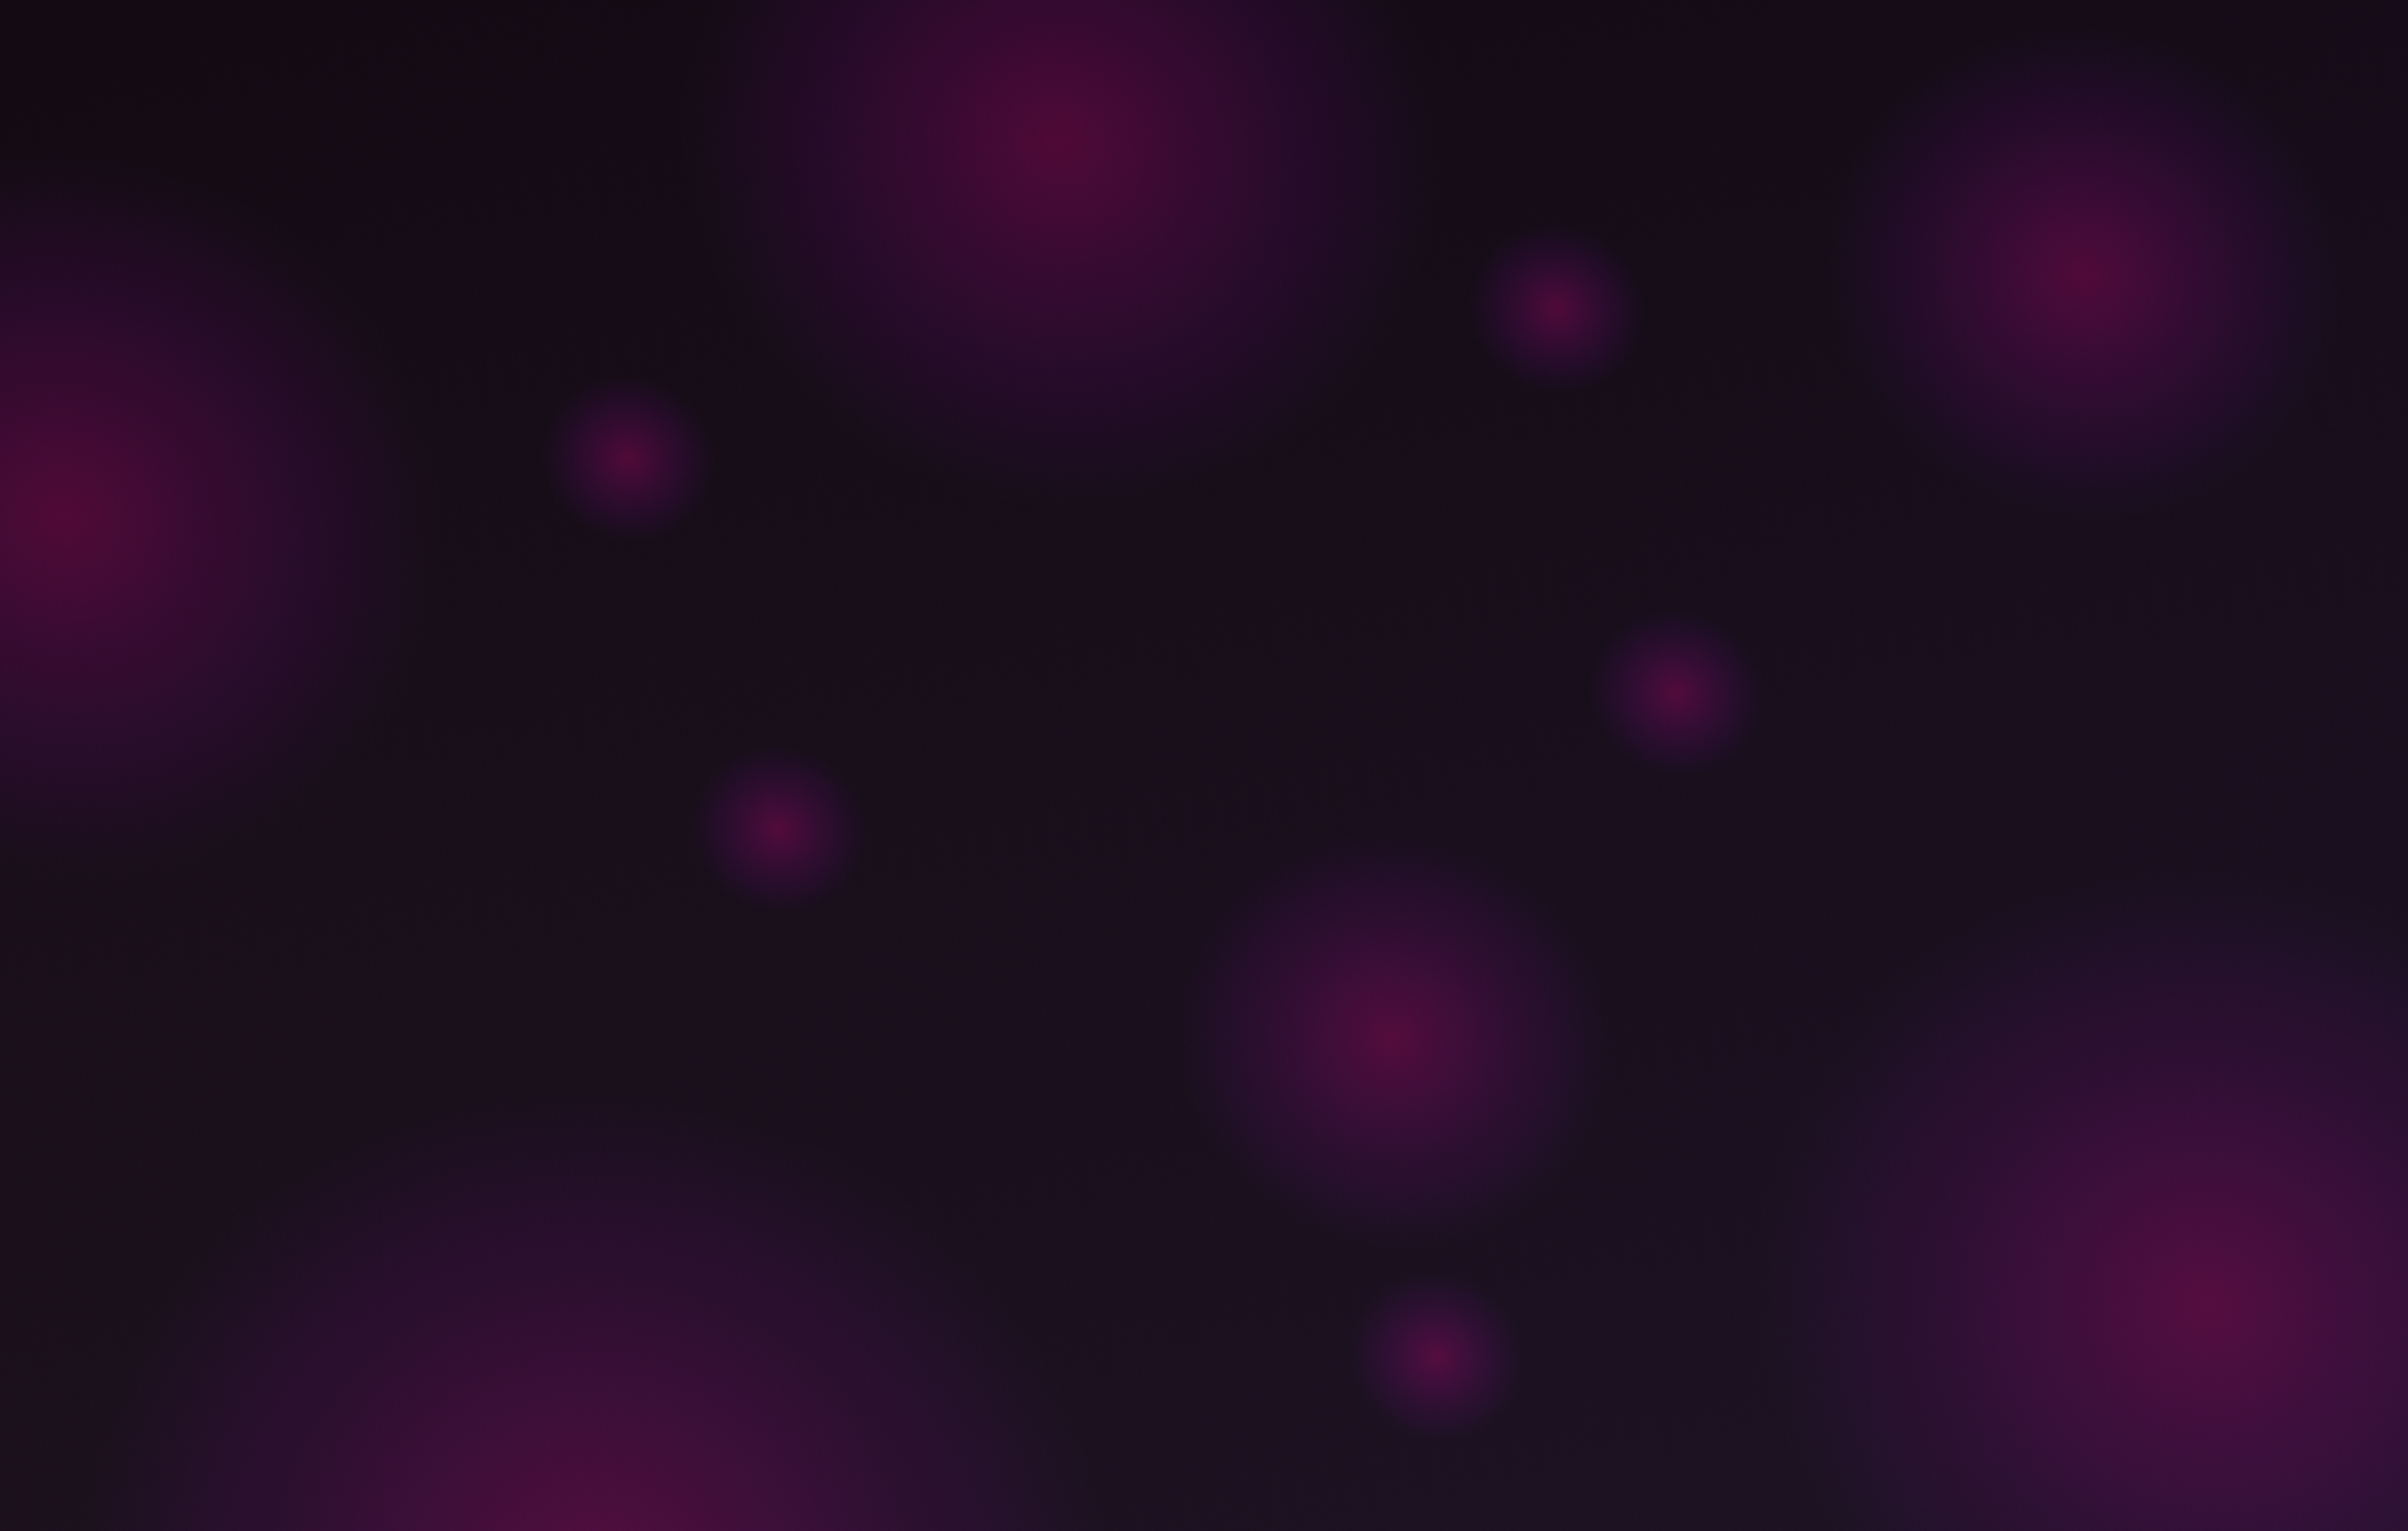
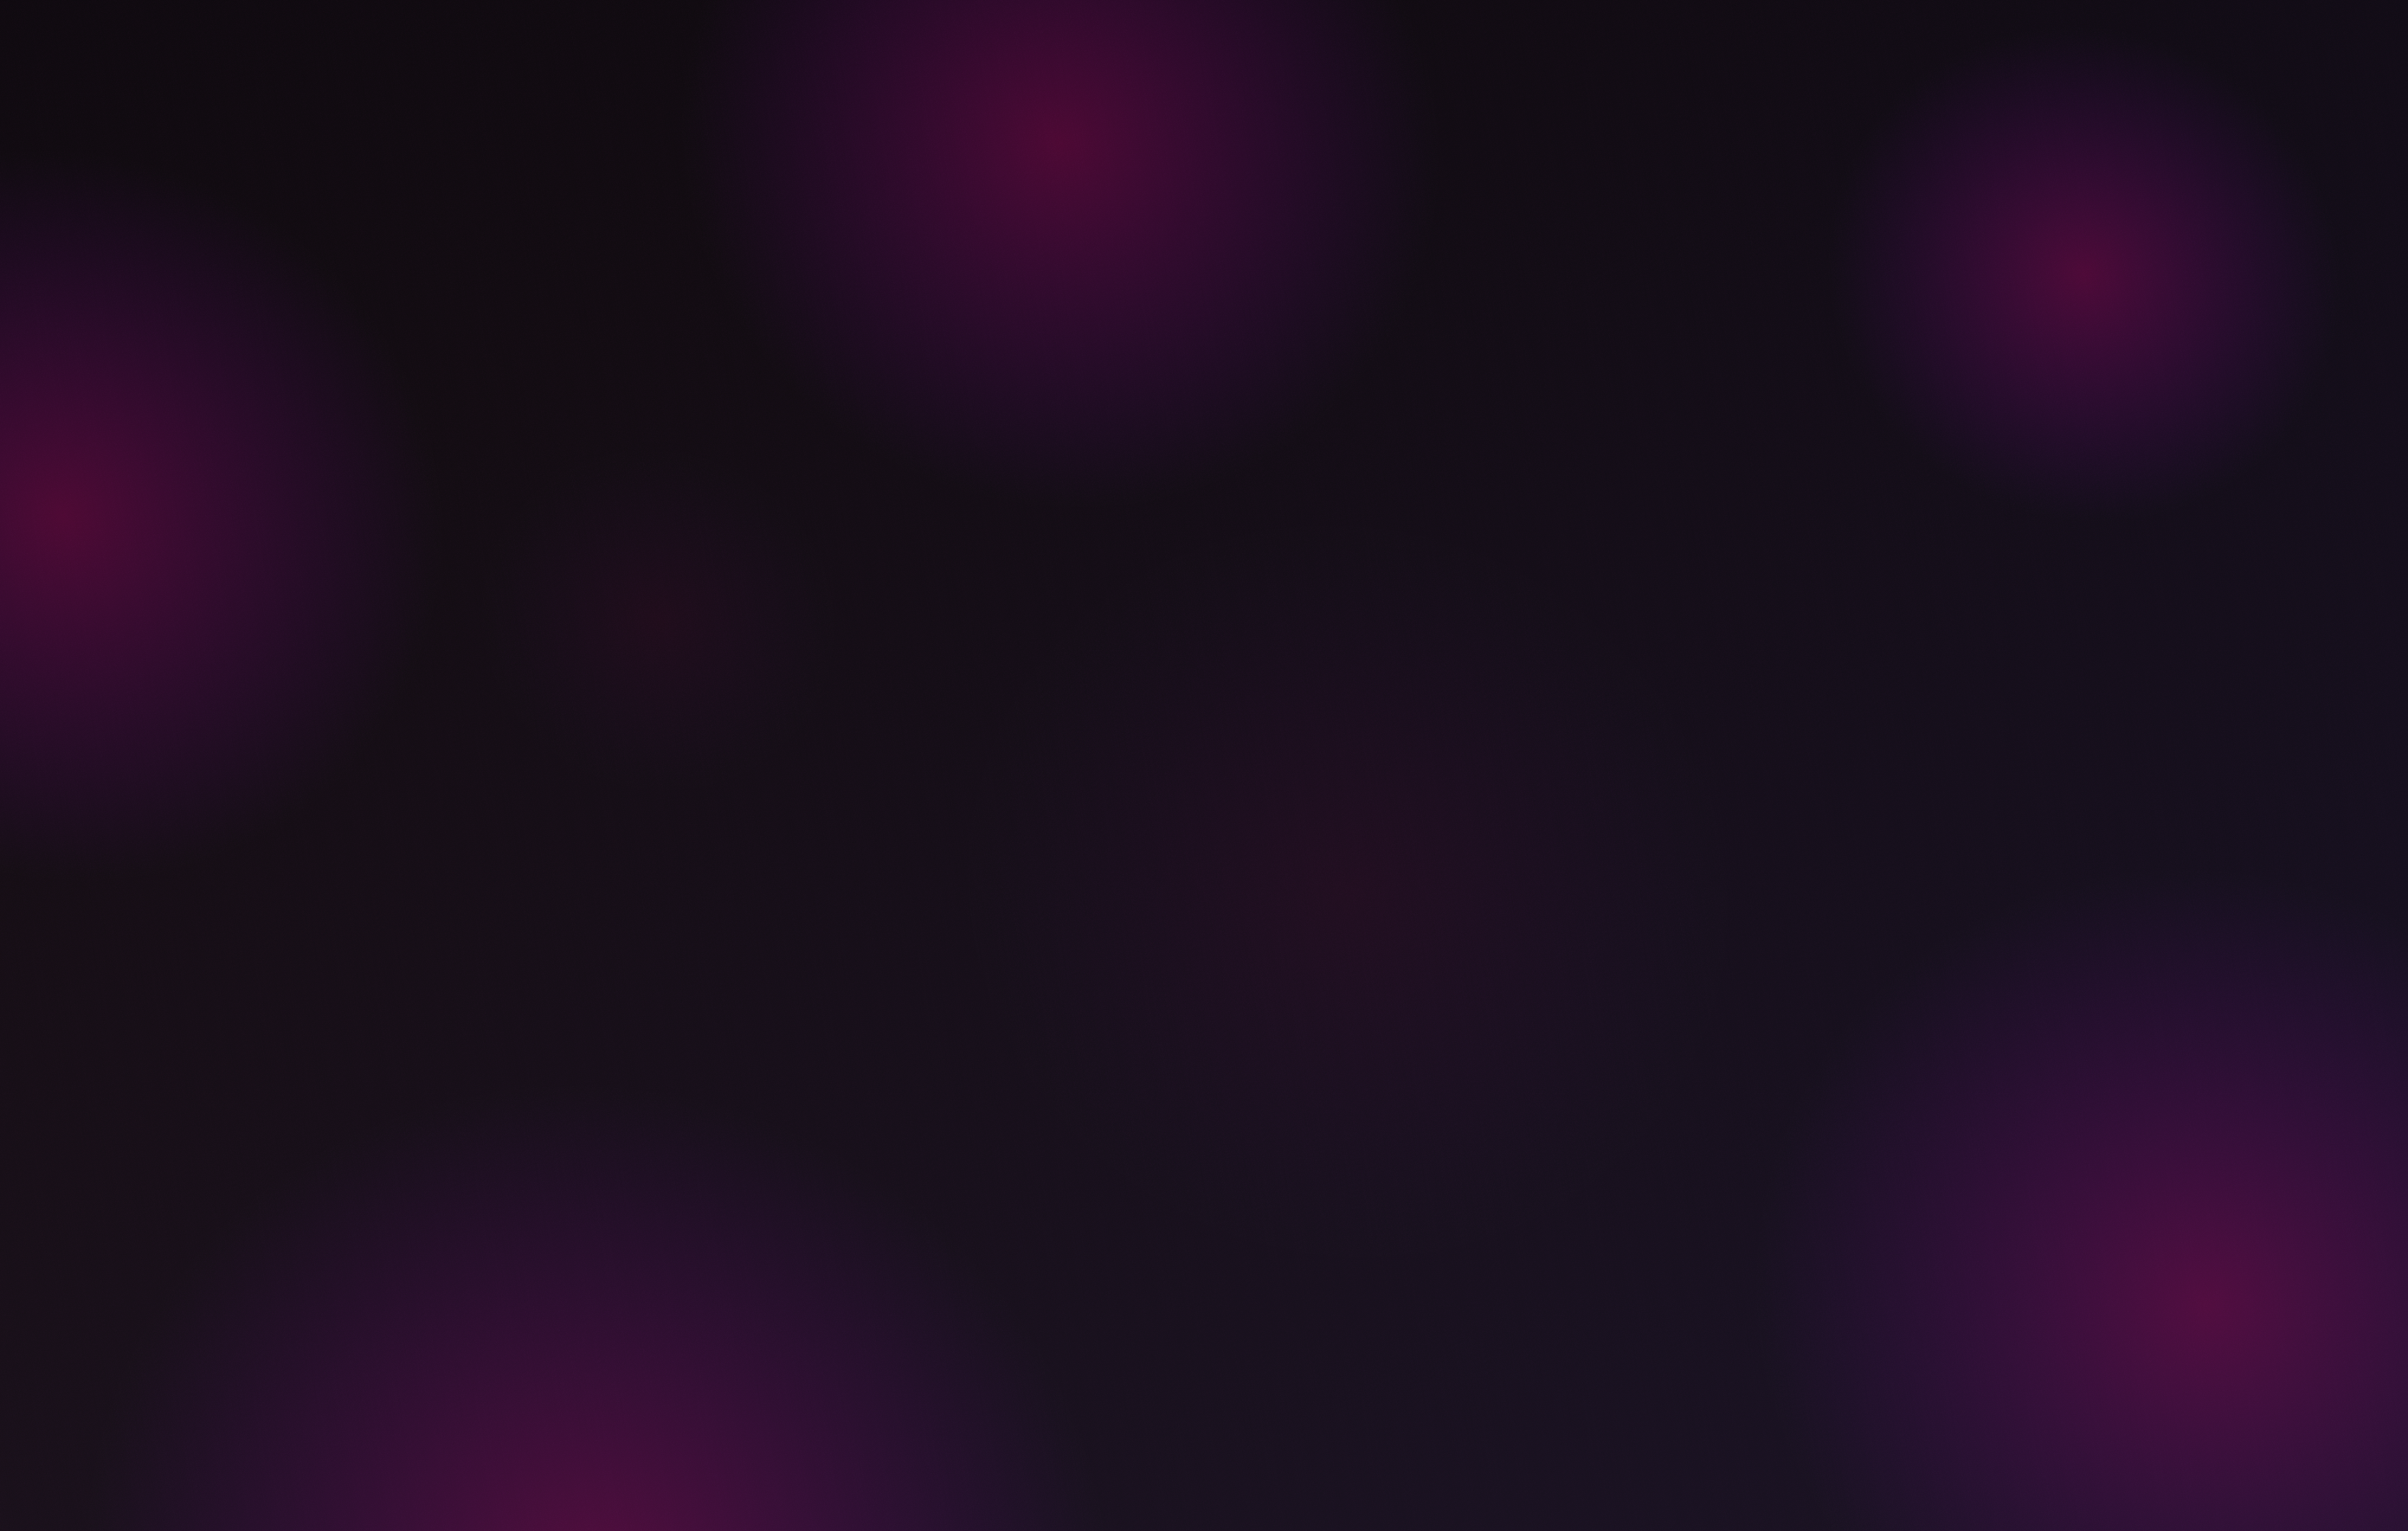
added the ball/signal to the pcb in techStack component

diff --git a/src/components/TechStack/TechStack.tsx b/src/components/TechStack/TechStack.tsx
@@ -9,8 +9,20 @@ export default function TechStack() {
     //see projects.js for explanation
     triggerOnce: true,
   });
+  const ballRef = useRef<SVGCircleElement>(null);
   const [corePos, setCorePos] = useState([{ x: 511, y: 269.5 }, { x: 634, y: 267.5 }, { x: 632, y: 353.5 }])
   let triggerPathsSwitch = false;
+  const [ballState, setBallState] = useState<{
+    isActive: boolean;
+    targetNode: string;
+    section: string;
+    mainNode?: string;
+    subNode?: string;
+  }>({
+    isActive: false,
+    targetNode: "",
+    section: "",
+  });
 
   const [containerWidth, setContainerWidth] = useState(0);
   const pcbRef = useRef<HTMLDivElement>(null);
@@ -27,9 +39,100 @@ export default function TechStack() {
     resizeObserver.observe(pcbRef.current);
 
     return () => resizeObserver.disconnect();
-  }, []);
+  }, [containerWidth]);
+  const currentIndexRef = useRef(0);
+
+  const animationFrameIdRef = useRef<number | null>(null);
+
+  useEffect(() => {
+    if (!ballState.isActive) return;
+
+    const targetNode = ballState.targetNode;
+
+    const animate = () => {
+      // Pobierz aktualne punkty ścieżki w każdym frame
+      const pathKeys = [
+        `path core-${ballState.section}`,
+        ballState.mainNode ? `path ${ballState.section}-${ballState.mainNode}` : "",
+        ballState.subNode ? `path ${ballState.mainNode}-${ballState.subNode}` : "",
+      ].filter(Boolean);
+
+      let pathCoords: { x: number; y: number }[] = [];
+      pathKeys.forEach(key => {
+        pathCoords = pathCoords.concat(getPathTrace(key));
+      });
+
+      const idx = currentIndexRef.current;
+      if (idx >= pathCoords.length) {
+        if (ballRef.current) ballRef.current.style.display = "none";
+        if (targetNode) {
+          const el = document.querySelector(`[data-node="${targetNode}"]`);
+          if (el) el.classList.add("active");
+        }
+        setBallState(prev => ({ ...prev, isActive: false, targetNode: "" }));
+        animationFrameIdRef.current = null;
+        return;
+      }
+
+      const { x, y } = pathCoords[idx];
+      if (ballRef.current) {
+        ballRef.current.setAttribute("cx", x.toString());
+        ballRef.current.setAttribute("cy", y.toString());
+        ballRef.current.style.display = "block";
+      }
+
+      currentIndexRef.current += 2;
+      animationFrameIdRef.current = requestAnimationFrame(animate);
+    };
+
+    currentIndexRef.current = 0;
+    animationFrameIdRef.current = requestAnimationFrame(animate);
+
+    return () => {
+      if (animationFrameIdRef.current) cancelAnimationFrame(animationFrameIdRef.current);
+    };
+  }, [
+    ballState.isActive,
+    ballState.targetNode,
+    ballState.section,
+    ballState.mainNode,
+    ballState.subNode,
+    containerWidth,
+  ]);
 
 
+  const handleNodeClick = (section: string, mainNode: string, subNode?: string) => {
+    // jeśli animacja w toku, ignorujemy kliknięcie
+    if (ballState.isActive) return;
+
+    // reset kulki
+    currentIndexRef.current = 0;
+    if (ballRef.current) ballRef.current.style.display = "none";
+
+    const pathKeys: string[] = [
+      `path core-${section}`,
+      mainNode ? `path ${section}-${mainNode}` : "",
+      subNode ? `path ${mainNode}-${subNode}` : "",
+    ].filter(Boolean);
+
+    let pathCoords: { x: number; y: number }[] = [];
+    pathKeys.forEach(key => {
+      pathCoords = pathCoords.concat(getPathTrace(key));
+    });
+
+    if (pathCoords.length > 0) {
+      const prevActive = document.querySelector(".active");
+      if (prevActive) prevActive.classList.remove("active");
+
+      setBallState({
+        isActive: true,
+        targetNode: subNode || mainNode,
+        section: section,
+        mainNode: mainNode,
+        subNode: subNode,
+      });
+    }
+  };
   //get the node x and y position of all 4 points
   function getNodeXY(nodeName: string) {
     const el = document.querySelector(`[data-node="${nodeName}"]`);
@@ -67,6 +170,21 @@ export default function TechStack() {
     }
   }
 
+  function getPathTrace(pathData: string, step = 2) {
+    const path = document.querySelector(`[data-node="${pathData}"]`) as SVGPathElement;
+    if (!path) return [];
+
+    const length = path.getTotalLength();
+    const points: { x: number; y: number }[] = [];
+
+    for (let i = 0; i <= length; i += step) {
+      const pt = path.getPointAtLength(i);
+      points.push({ x: pt.x, y: pt.y });
+    }
+
+    return points;
+  }
+
   return (
     <section className="tech-stack" ref={ref}>
       <h1
@@ -84,15 +202,20 @@ export default function TechStack() {
             >
               {comp.stack.map((node, idy) => (
                 <ul key={idy} className={`nodes ${node.nodeName.toLowerCase()}`}>
-                  <li className={node.type} data-node={node.nodeName}>
+                  <li
+                    className={`${node.type}`}
+                    data-node={node.nodeName}
+                    onClick={() => { handleNodeClick(comp.section, node.nodeName) }}
+                  >
                     <img src={require(`../../images/techStack/${node.svgName}.svg`)} alt={node.nodeName} />
                     <span>{node.nodeName}</span>
                   </li>
                   {node.subnodes.map((subnode, idz) => (
                     <li
                       key={idz}
-                      className={`${subnode.type} ${subnode.nodeName.toLowerCase()}`}
+                      className={`${subnode.type}`}
                       data-node={subnode.nodeName}
+                      onClick={() => { handleNodeClick(comp.section, node.nodeName, subnode.nodeName) }}
                     >
                       <img src={require(`../../images/techStack/${subnode.svgName}.svg`)} alt={node.nodeName} />
                       <span>{subnode.nodeName}</span>
@@ -110,9 +233,9 @@ export default function TechStack() {
               const compXY = getNodeXY(comp.section);
               if (!compXY) return null;
               return (
-                <>
+                <React.Fragment key={`core-section path ${idx}`}>
                   <path
-                    key={`core-section path ${idx}`}
+                    data-node={`path core-${comp.section}`}
                     d={`
                     M ${corePos[idx].x} ${corePos[idx].y}
                     L ${compXY.bottomMiddle.x} ${corePos[idx].y}
@@ -139,10 +262,9 @@ export default function TechStack() {
                         offsetY = - 10 + (idy - (n + gap) / 2) * gap
                       }
                       return (
-                        <>
+                        <React.Fragment key={`section-mainnode path ${idy}`}>
                           <path
-                            className={`path ${node.nodeName}`}
-                            key={`section-mainnode path ${idy}`}
+                            data-node={`path ${comp.section}-${node.nodeName}`}
                             d={idx !== 2 ?
                               `
                               M ${compXY.topMiddle.x + offset} ${compXY.topMiddle.y}
@@ -164,8 +286,8 @@ export default function TechStack() {
                             if (!subNodeXY) return null;
                             return (
                               <path
-                                className={`path ${subnode.nodeName}`}
                                 key={`section-subnode path ${idz}`}
+                                data-node={`path ${node.nodeName}-${subnode.nodeName}`}
                                 d={idz === 0 ?
                                   `M ${subNodeXY.bottomMiddle.x} ${nodeXY.topMiddle.y}
                                   L ${subNodeXY.bottomMiddle.x} ${subNodeXY.bottomMiddle.y}`
@@ -177,12 +299,15 @@ export default function TechStack() {
                               />
                             )
                           })}
-                        </>
+                        </React.Fragment>
                       );
                     })}
-                </>
+                </React.Fragment>
               )
             })}
+          </svg>
+          <svg className="ball" xmlns="http://www.w3.org/2000/svg" width="100%" height="100%">
+            <circle ref={ballRef} cx={0} cy={0} r="3" />
           </svg>
         </div>
         <div className="core"><LogoSvg /></div>

diff --git a/src/components/TechStack/techStack.scss b/src/components/TechStack/techStack.scss
@@ -80,7 +80,7 @@
     align-items: end;
     height: auto;
   }
-  
+
 }
 
 // .tech-stack .pcb-component:nth-child(3) { backend
@@ -153,6 +153,18 @@
     width: 60px;
     height: 60px;
   }
+
+  &.active {
+    transition: 600ms;
+    border-color: $pink;
+    filter: drop-shadow(0px 0px 5px rgba(66, 0, 255, 1));
+
+    & img {
+      filter: none;
+      transition: 600ms;
+    }
+
+  }
 }
 
 .tech-stack .pcb .sub-node {
@@ -168,6 +180,18 @@
   & img {
     width: 30px;
     height: 30px;
+  }
+
+  &.active {
+    transition: 600ms;
+    border-color: $pink;
+    filter: drop-shadow(0px 0px 5px rgba(66, 0, 255, 1));
+
+    & img {
+      filter: none;
+      transition: 600ms;
+    }
+
   }
 }
 
@@ -185,6 +209,18 @@
   & img {
     width: 30px;
     height: 30px;
+  }
+
+  &.active {
+    transition: 600ms;
+    border-color: $pink;
+    filter: drop-shadow(0px 0px 5px rgba(66, 0, 255, 1));
+
+    & img {
+      filter: none;
+      transition: 600ms;
+    }
+
   }
 }
 
@@ -208,6 +244,7 @@
 }
 
 .tech-stack .pcb .paths {
+  pointer-events: none;
   position: absolute;
   top: 0;
   left: 0;
@@ -217,5 +254,15 @@
   & path {
     stroke: rgba(255, 0, 153, 0.5);
     fill: none;
+  }
+
+  .ball {
+    position: inherit;
+    top: 0;
+    left: 0;
+
+    & circle {
+      fill: $pink;
+    }
   }
 }

diff --git a/src/index.scss b/src/index.scss
@@ -53,9 +53,9 @@ body {
   background-color: $dark;
   background-image: url(./images/backgrounds/bg.webp);
   background-repeat: no-repeat;
-  background-attachment: fixed;
-  background-size: cover;
-  background-position: center;
+  background-attachment: fixed; 
+  background-size: cover; 
+  background-position: center; 
   color: #ffffff;
 }
 

diff --git a/src/App.tsx b/src/App.tsx
@@ -1,5 +1,3 @@
-import arrow from "./images/arrow.webp";
-import hadleScroll from "./components/functions&Variables/handleScroll";
 import logo from "../src/images/logo/logo.webp";
 
 import Navbar from "./components/Navbar/Navbar";